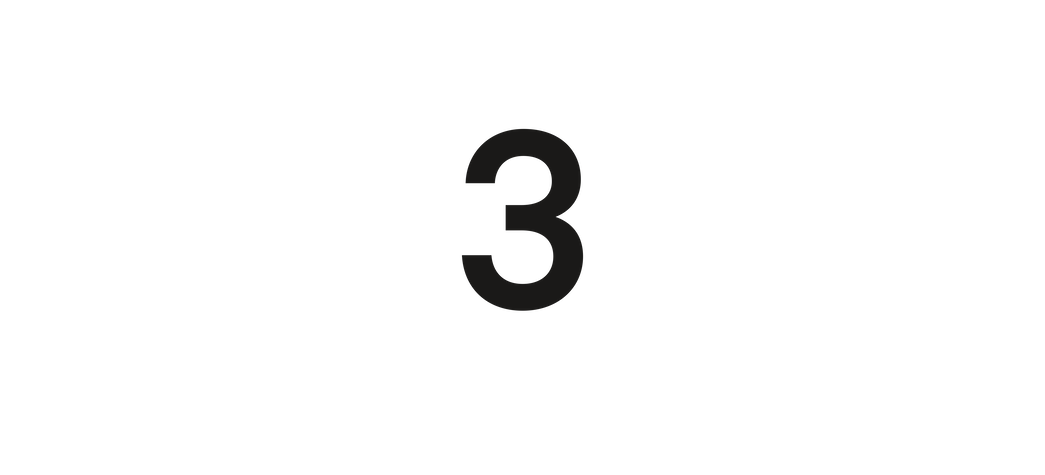
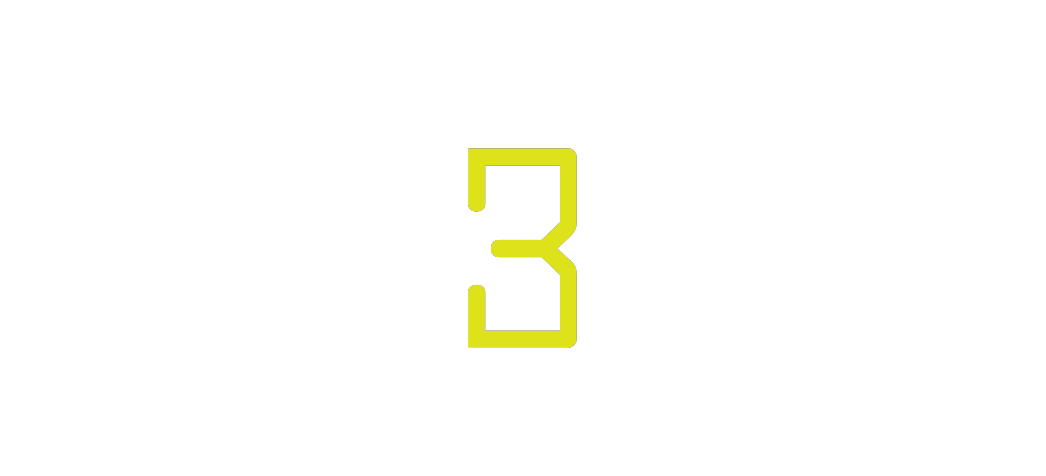
speaker dead fixed

Changed region(s): [[0.4287, 0.2653, 0.5818, 0.7368]]

diff --git a/core/src/com/pungo/repairgame/gamescreen/GameScreen.kt b/core/src/com/pungo/repairgame/gamescreen/GameScreen.kt
@@ -4,6 +4,7 @@ import com.badlogic.gdx.Gdx
 import com.badlogic.gdx.graphics.g2d.Sprite
 import com.badlogic.gdx.graphics.g2d.SpriteBatch
 import com.pungo.repairgame.*
+import com.pungo.repairgame.gamescreen.devices.BigMonitorStatus
 import com.pungo.repairgame.gamescreen.devices.DevicesData
 import com.pungo.repairgame.gamescreen.devices.SimpleDevice
 import com.pungo.repairgame.ui.ButtonStatus
@@ -21,7 +22,7 @@ class GameScreen: Screen() {
     private var texts = mutableListOf<TextIslandTexts>()
     private val travelTimer = Timer(20000)                  // travel timer
     private val timer = Timer(1000)                         // breakdown timer
-    private val countdownTimer = Timer(1000)                // countdown timer
+    private val countdownTimer = Timer(100)                // countdown timer
     private var sfxBeep = Gdx.audio.newSound(Gdx.files.internal("sound/Beep.mp3"))
     private var sfxTake = Gdx.audio.newSound(Gdx.files.internal("sound/Take.mp3"))
     private var sfxFail = Gdx.audio.newSound(Gdx.files.internal("sound/Fail.mp3"))
@@ -33,7 +34,7 @@ class GameScreen: Screen() {
     private var patrolPlanet = false
     private var countdownIndex = -1
     private var countdownIndexLimit = 3
-    private val countdownList: List<String> = listOf("graphics/bigmonitor/three.png", "graphics/bigmonitor/two.png", "graphics/bigmonitor/one.png", "graphics/bigmonitor/go.png","graphics/bigmonitor/show&tell.png")
+
 
 
     fun reset(){
@@ -44,7 +45,8 @@ class GameScreen: Screen() {
         cargoBay.reset()
         devices.forEach { it.status = DeviceStatus.NORMAL }
         tools = ToolsData.getTools()
-        bigMonitor.changeMonitor("graphics/planets/p0.png")
+        bigMonitor.status = BigMonitorStatus.P0
+        //bigMonitor.changeMonitor("graphics/planets/p0.png")
         breakingList = listOf(0)
         phText.getPlanetPassage(1)
         updateIslandText()
@@ -220,7 +222,8 @@ class GameScreen: Screen() {
         redButton.glowing = false
         if(patrolFlag){
             phText.getPlanetPassage(218)
-            bigMonitor.changeMonitor("graphics/planets/ps.png")
+            bigMonitor.status = BigMonitorStatus.Ps
+            //bigMonitor.changeMonitor("graphics/planets/ps.png")
             updateIslandText()
             for(device in devices){
                 device.breakTimer.running = false
@@ -231,7 +234,8 @@ class GameScreen: Screen() {
             return
         }
         else {
-            countdownTimer.go()
+            //countdownTimer.go()
+            bigMonitor.activateCountdown()
             texts[0].setStuff("")
         }
     }
@@ -261,6 +265,7 @@ class GameScreen: Screen() {
     }
 
     override fun loopAction() {
+        /*
         if(countdownTimer.running){
             if(countdownTimer.done()){
                 if(countdownIndex==countdownIndexLimit){
@@ -282,6 +287,18 @@ class GameScreen: Screen() {
                     countdownTimer.go()
                 }
             }
+        }
+         */
+        when (bigMonitor.loopAction()){
+            1-> {
+                travelTimer.go()
+                for(device in devices){
+                    device.breakTimer.resume()
+                }
+                chosenOption = -1
+                texts[0].setStuff("")
+            }
+
         }
 
         if (travelTimer.running) {
@@ -346,7 +363,8 @@ class GameScreen: Screen() {
                         phText.getPlanetPassage(7)
                     }
                 }
-                bigMonitor.changeMonitor("graphics/planets/p1.png")
+                //bigMonitor.changeMonitor("graphics/planets/p1.png")
+                bigMonitor.status = BigMonitorStatus.P1
                 countdownIndexLimit = 2
             }
             1 -> {
@@ -355,7 +373,8 @@ class GameScreen: Screen() {
                 } else {
                     phText.getPlanetPassage(93)
                 }
-                bigMonitor.changeMonitor("graphics/planets/p2.png")
+                //bigMonitor.changeMonitor("graphics/planets/p2.png")
+                bigMonitor.status = BigMonitorStatus.P2
             }
             2 -> {
                 when {
@@ -363,7 +382,8 @@ class GameScreen: Screen() {
                     devices[3].status != DeviceStatus.NORMAL -> phText.getPlanetPassage(3) //translator
                     else -> phText.getPlanetPassage(36)
                 }
-                bigMonitor.changeMonitor("graphics/planets/p3.png")
+                //bigMonitor.changeMonitor("graphics/planets/p3.png")
+                bigMonitor.status = BigMonitorStatus.P3
             }
             3 -> {
                 when {
@@ -371,13 +391,15 @@ class GameScreen: Screen() {
                     devices[3].status != DeviceStatus.NORMAL -> phText.getPlanetPassage(196) //translator
                     else -> phText.getPlanetPassage(146)
                 }
-                bigMonitor.changeMonitor("graphics/planets/p4.png")
+                //bigMonitor.changeMonitor("graphics/planets/p4.png")
+                bigMonitor.status = BigMonitorStatus.P4
             }
             4 -> {
                 cargoBay.endingTree().also{
                     phText.getPlanetPassage(it)
                 }
-                bigMonitor.changeMonitor("graphics/planets/p5.png")
+                //bigMonitor.changeMonitor("graphics/planets/p5.png")
+                bigMonitor.status = BigMonitorStatus.P5
             }
         }
         SharedVariables.planetIndex++
@@ -385,6 +407,10 @@ class GameScreen: Screen() {
     }
 
     override fun lateInitializer() {
+        bigMonitor = BigMonitor().apply{
+            //changeMonitor("graphics/planets/p0.png")
+            status = BigMonitorStatus.P0
+        }
         mainSprite = SharedVariables.loadSprite(SharedVariables.gameBackgroundPath, SharedVariables.gameBackgroundRatio)
         mainSprite.setCenterX(SharedVariables.mainWidth.toFloat() / 2)
         mainSprite.setCenterY(SharedVariables.mainHeight.toFloat() / 2)
@@ -415,9 +441,7 @@ class GameScreen: Screen() {
             it.setStuff("", 250f, 0f, 1250f,65f)
             texts.add(it)
         }
-        bigMonitor = BigMonitor().apply{
-            changeMonitor("graphics/planets/p0.png")
-        }
+
         cargoBay = CargoBay()
         timer.go()
     }

diff --git a/core/src/com/pungo/repairgame/gamescreen/BigMonitor.kt b/core/src/com/pungo/repairgame/gamescreen/BigMonitor.kt
@@ -2,30 +2,115 @@ package com.pungo.repairgame.gamescreen
 
 import com.badlogic.gdx.graphics.g2d.Sprite
 import com.badlogic.gdx.graphics.g2d.SpriteBatch
-import com.pungo.repairgame.SharedVariables
+import com.pungo.repairgame.Timer
+import com.pungo.repairgame.SharedVariables as sv
+import com.pungo.repairgame.gamescreen.devices.BigMonitorStatus
 
 class BigMonitor {
-    private var monitorSprite : Sprite
+    private var planetSprite : Sprite
     private var monitorSideSprite : Sprite
+    //private val countdownList: List<String>
+    private val countdownSprites: List<Sprite>
+    private val p0Sprite =  sv.loadSprite("graphics/planets/p0.png", sv.monitorRatio).apply{setCenter(sv.monitorCentreX,sv.monitorCentreY)}
+    private val p1Sprite =  sv.loadSprite("graphics/planets/p1.png", sv.monitorRatio).apply{setCenter(sv.monitorCentreX,sv.monitorCentreY)}
+    private val p2Sprite =  sv.loadSprite("graphics/planets/p2.png", sv.monitorRatio).apply{setCenter(sv.monitorCentreX,sv.monitorCentreY)}
+    private val p3Sprite =  sv.loadSprite("graphics/planets/p3.png", sv.monitorRatio).apply{setCenter(sv.monitorCentreX,sv.monitorCentreY)}
+    private val p4Sprite =  sv.loadSprite("graphics/planets/p4.png", sv.monitorRatio).apply{setCenter(sv.monitorCentreX,sv.monitorCentreY)}
+    private val p5Sprite =  sv.loadSprite("graphics/planets/p5.png", sv.monitorRatio).apply{setCenter(sv.monitorCentreX,sv.monitorCentreY)}
+    private val psSprite =  sv.loadSprite("graphics/planets/ps.png", sv.monitorRatio).apply{setCenter(sv.monitorCentreX,sv.monitorCentreY)}
+    private val showAndTellSprite = sv.loadSprite("graphics/bigmonitor/show&tell.png", sv.monitorRatio).apply{setCenter(sv.monitorCentreX,sv.monitorCentreY)}
+    private val hyperspaceSprites: List<Sprite>
+    private val countdownTimer = Timer(1000)                // countdown timer
+    private val hyperspaceTimer = Timer(100)                // countdown timer
+    private var countdownIndex = 0
+    private var hyperspaceIndex = 0
+    var status = BigMonitorStatus.P0
 
     init{
-        monitorSprite = SharedVariables.loadSprite(SharedVariables.monitorPath, SharedVariables.monitorRatio)
-        monitorSprite.setCenterX(SharedVariables.monitorCentreX)
-        monitorSprite.setCenterY(SharedVariables.monitorCentreY)
-        monitorSideSprite = SharedVariables.loadSprite(SharedVariables.monitorFramePath, SharedVariables.monitorRatio)
-        monitorSideSprite.setCenterX(SharedVariables.monitorCentreX)
-        monitorSideSprite.setCenterY(SharedVariables.monitorCentreY)
+        planetSprite = sv.loadSprite(sv.monitorPath, sv.monitorRatio).apply {
+            setCenter(sv.monitorCentreX,sv.monitorCentreY)
+        }
+        monitorSideSprite = sv.loadSprite(sv.monitorFramePath, sv.monitorRatio).apply{
+            setCenter(sv.monitorCentreX,sv.monitorCentreY)
+        }
+        var m = mutableListOf<Sprite>()
+        listOf("graphics/bigmonitor/three.png", "graphics/bigmonitor/two.png", "graphics/bigmonitor/one.png", "graphics/bigmonitor/go.png").forEach {
+            m.add(sv.loadSprite(it, sv.monitorRatio).apply{
+                setCenter(sv.monitorCentreX,sv.monitorCentreY)
+            })
+        }
+        countdownSprites = m
+        var m2 = mutableListOf<Sprite>()
+        for (i in 12 downTo 1){
+            m2.add(sv.loadSprite("graphics/bigmonitor/anim/$i.png", sv.monitorRatio).apply{
+                setCenter(sv.monitorCentreX,sv.monitorCentreY)
+            })
+        }
+        hyperspaceSprites = m2
+
+    }
+
+    fun activateCountdown(){
+        countdownTimer.go()
+        status = BigMonitorStatus.Countdown
+        countdownIndex = 0
+        hyperspaceIndex = 0
     }
 
     fun draw(batch: SpriteBatch){
-        monitorSprite.draw(batch)
+        when (status){
+            BigMonitorStatus.P0 -> p0Sprite.draw(batch)
+            BigMonitorStatus.P1 -> p1Sprite.draw(batch)
+            BigMonitorStatus.P2 -> p2Sprite.draw(batch)
+            BigMonitorStatus.P3 -> p3Sprite.draw(batch)
+            BigMonitorStatus.P4 -> p4Sprite.draw(batch)
+            BigMonitorStatus.P5 -> p5Sprite.draw(batch)
+            BigMonitorStatus.Ps -> psSprite.draw(batch)
+            BigMonitorStatus.Guide -> showAndTellSprite.draw(batch)
+            BigMonitorStatus.Countdown -> countdownSprites[countdownIndex].draw(batch)
+            BigMonitorStatus.Hyperspace -> hyperspaceSprites[hyperspaceIndex].draw(batch)
+        }
+        //planetSprite.draw(batch)
         monitorSideSprite.draw(batch)
     }
 
-    fun changeMonitor(path: String){
-        monitorSprite = SharedVariables.loadSprite(path, SharedVariables.monitorRatio)
-        monitorSprite.setCenterX(SharedVariables.monitorCentreX)
-        monitorSprite.setCenterY(SharedVariables.monitorCentreY)
+    fun loopAction(): Int {
+        if(status==BigMonitorStatus.Countdown){
+            if (countdownTimer.done()){
+                countdownIndex += 1
+                if (countdownIndex>=4){
+                    countdownIndex = 0
+                    hyperspaceIndex = 0
+                    hyperspaceTimer.go()
+                    status = BigMonitorStatus.Hyperspace
+                } else {
+                    countdownTimer.go()
+                }
+
+            }
+        }
+        if(status==BigMonitorStatus.Hyperspace){
+            if (hyperspaceTimer.done()){
+                hyperspaceIndex += 1
+                if (hyperspaceIndex>=12){
+                    hyperspaceIndex = 0
+                    status = BigMonitorStatus.Guide
+                    return 1
+                } else {
+                    hyperspaceTimer.go()
+                }
+            }
+        }
+        return 0
     }
+
+    /*
+    fun changeMonitor(path: String){
+        planetSprite = sv.loadSprite(path, sv.monitorRatio)
+        planetSprite.setCenterX(sv.monitorCentreX)
+        planetSprite.setCenterY(sv.monitorCentreY)
+    }
+
+     */
 
 }

diff --git a/core/src/com/pungo/repairgame/gamescreen/devices/BigMonitorStatus.kt b/core/src/com/pungo/repairgame/gamescreen/devices/BigMonitorStatus.kt
@@ -1,0 +1,14 @@
+package com.pungo.repairgame.gamescreen.devices
+
+enum class BigMonitorStatus {
+    P0,
+    P1,
+    P2,
+    P3,
+    P4,
+    P5,
+    Ps,
+    Countdown,
+    Hyperspace,
+    Guide
+}
